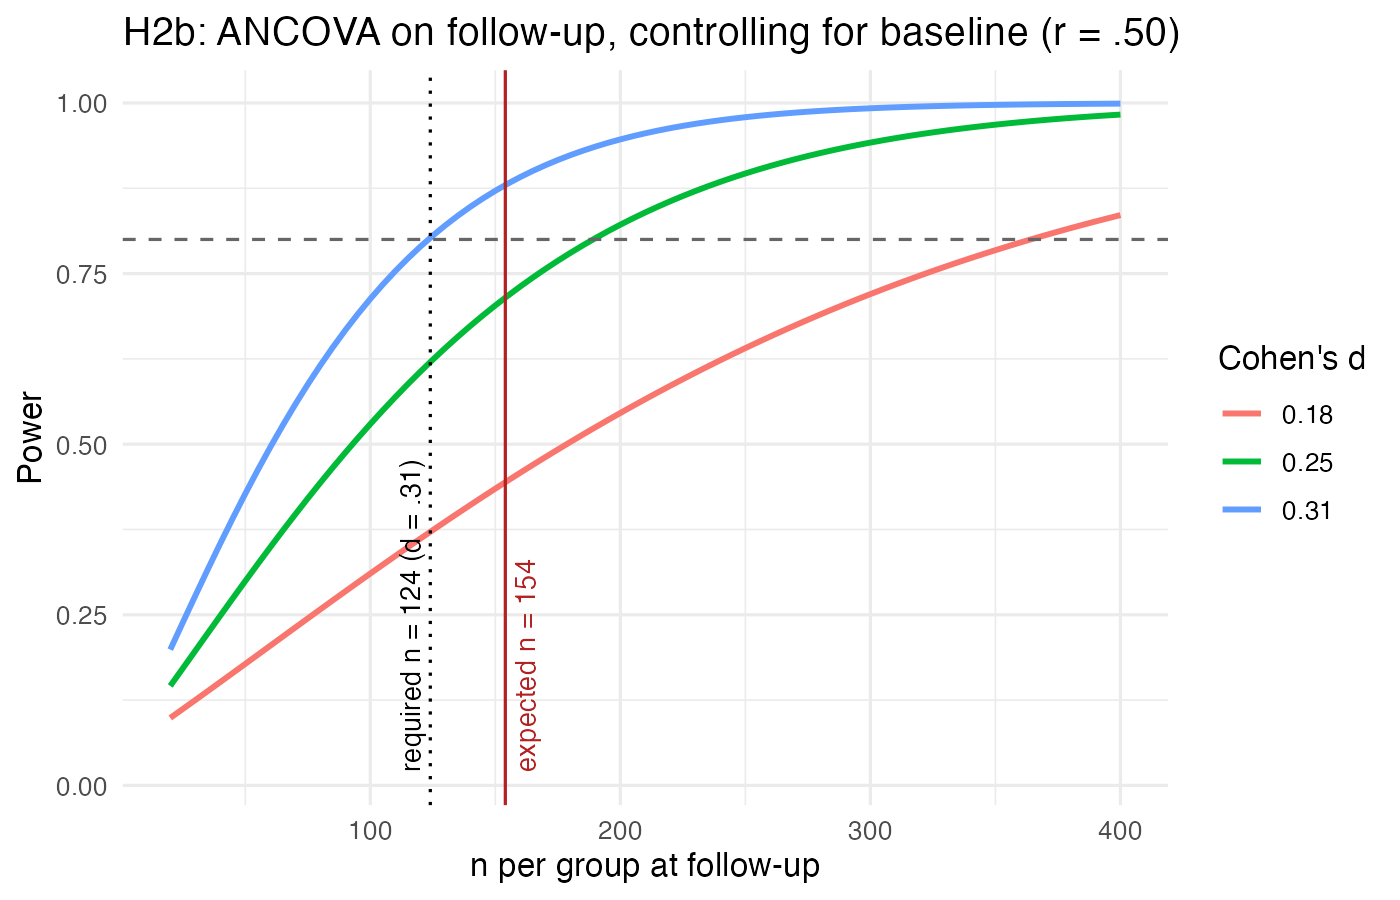
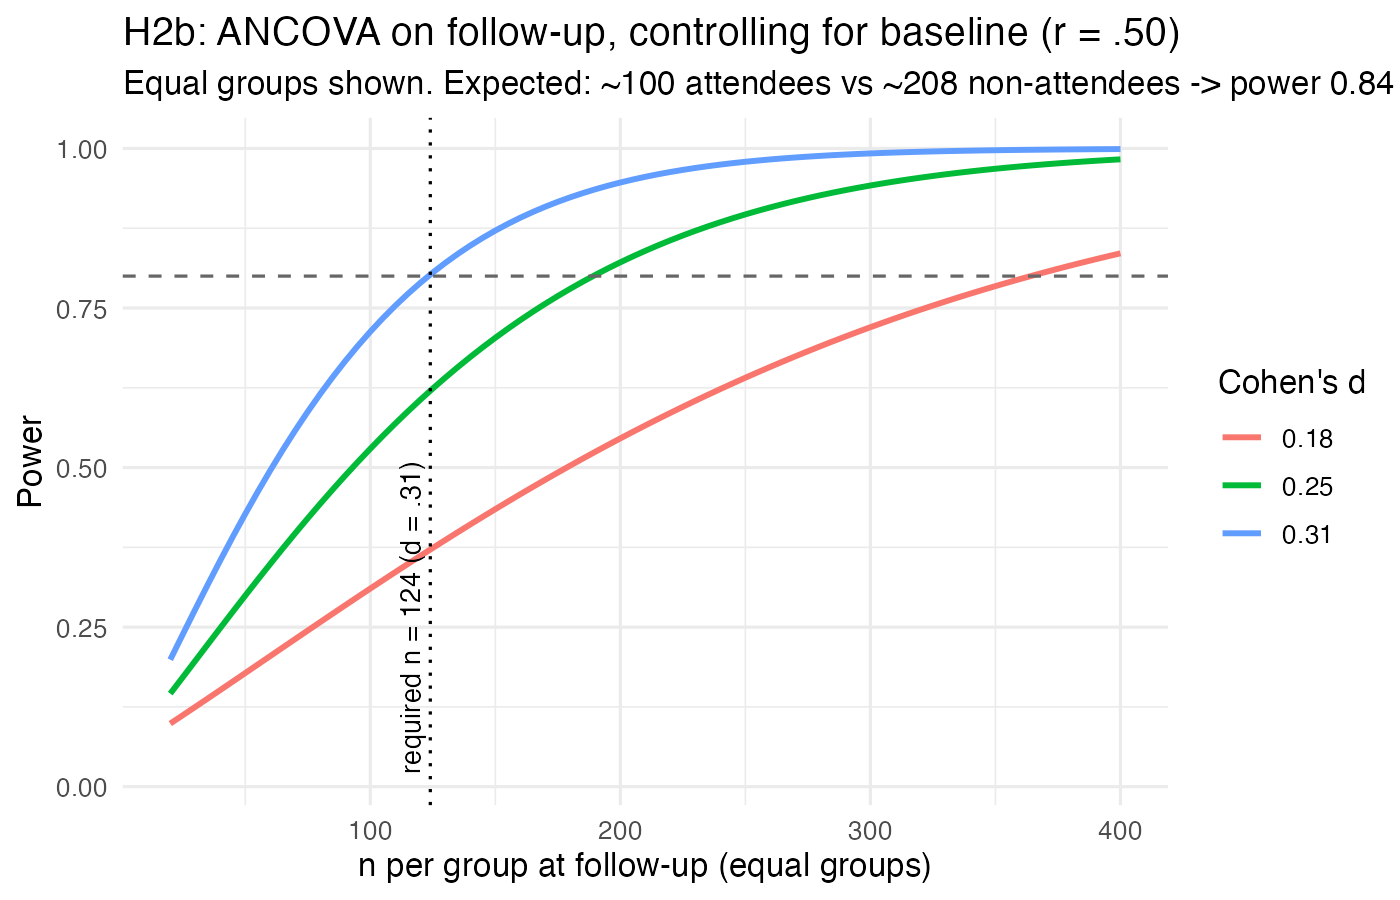
Fix Part 4 sources, fill placeholder references, correct H2b power
- Part 4 temporal-context table: restore the template's original
  "Action if Medium/High" text, move study notes to a new column tagged by
  source, record that poaching still occurs on Santa Cruz, remove El Nino.
- Replace placeholder references (Boren & Echeverri 2025, de Goede et al.
  2025, Johnson & Reimer 2023, Wilkie et al. 2026, Tapia-Jaramillo 2022).
- H2b power at planned N now uses expected attendees (~100) vs
  non-attendees (~208) instead of invitation arms: .84 at d = .31,
  .40 at d = .18.

diff --git a/Step_04_Study_Architecture_and_Experimental_Design/design_decision_matrix.md b/Step_04_Study_Architecture_and_Experimental_Design/design_decision_matrix.md
@@ -74,15 +74,17 @@ Use the table below BEFORE launch to actively map out these risks. Rate each one
 
 Rate each factor Low / Medium / High for your data collection window.
 
-| Factor | Risk level | Action if Medium/High |
-|---|---|---|
-| Data collection during hunting / culling season | **Low–Medium.** There is no tortoise hunting, but GNPD invasive-species control (e.g., feral animal or rodent eradication) may run in June–Aug. The garúa (cool, dry) season is also when tortoises move into the highlands and onto farms, so human–tortoise contact and farm conflicts (fence and crop damage, road encounters) peak during fieldwork. | Record GNPD control campaigns and season as covariates. Ask about recent tortoise encounters on the respondent's property or road. All waves fall in the same season, so season is held constant across the panel. |
-| Active depredation conflict or rewilding event nearby | **Medium.** Farmer–tortoise conflicts in the highlands; possible tortoise reintroduction or translocation news from other islands. | Log events with dates and parish. Add an event-proximity covariate (event in own parish within 4 weeks before the interview). |
-| National or regional media spike on focal species | **Medium.** Tortoise **trafficking or poaching** news (smuggling seizures at airports) recurs and draws national attention. | Log news items (national press, *El Colono*, local radio and Facebook pages) and Google Trends for "tortugas Galápagos". Add a media-spike indicator for interview dates. |
-| Extreme weather affecting outdoor activity | **Medium.** **Floods** and other shocks (heavy rain, El Niño-related events, landslides on highland roads) can affect mood, access to the highlands and attendance at the monitoring day. | Record daily weather (INAMHI / Charles Darwin Station). The survey asks about recent shocks such as floods. If a major event happens, add a wave-period indicator. |
-| Major policy announcement (listing, delisting, quota change) | **Medium.** Possible announcements on the Special Law, the park entry fee or tourism quotas, GNPD management-plan changes, or new rules on tortoise movement across farms. | Log announcements. Flag affected interview windows. Because trust is an outcome, run a sensitivity analysis excluding interviews within 2 weeks after a major announcement. |
+**Key for the last column:** ✅ = from the author's notes or fieldwork knowledge · ⚠ = added from general knowledge; **needs a source or the author's confirmation** before submission.
 
-**Overall temporal-context risk: Medium.** All events, shocks such as floods, trafficking or poaching news, and policy announcements are recorded during each wave in `temporal_context_log.md` and used as covariates.
+| Factor | Risk level | Action if Medium/High *(Ale's original text)* | This study: notes and sources |
+|---|---|---|---|
+| Data collection during hunting / culling season | **Medium** ⚠ *(level to confirm)* | Record as covariate; consider delaying or stratifying by season | ✅ **Illegal tortoise poaching still happens on Santa Cruz.** There are no official island-level data, but the author knows of it from fieldwork; it is reportedly less frequent than on Isabela. Poaching incidents that residents hear about during fieldwork are recorded with dates. ⚠ GNPD invasive-species control campaigns may run during the fieldwork window. ⚠ Seasonal tortoise movement into the highlands and onto farms may raise human–tortoise contact during fieldwork. |
+| Active depredation conflict or rewilding event nearby | **Medium** ⚠ *(level to confirm)* | Document events; add event-proximity covariate | ⚠ Farmer–tortoise conflicts in the highlands (e.g., fence or crop damage). ⚠ Possible tortoise reintroduction or translocation news from other islands. |
+| National or regional media spike on focal species | **Medium** | Record Google Trends or media index; add as covariate | ✅ Trafficking or poaching news (from the author's notes). ⚠ Specific outlets to log (national press, local newspaper, local radio and Facebook pages) to be chosen by the author. |
+| Extreme weather affecting outdoor activity | **Medium** | Record daily weather; assess mood confounds | ✅ Floods and other shocks (from the author's notes), e.g., heavy rain or landslides on highland roads, which can limit access to the highlands and attendance at the monitoring day. The survey asks about recent shocks such as floods. ⚠ Source for daily weather records to be confirmed by the author. |
+| Major policy announcement (listing, delisting, quota change) | **Medium** | Flag wave; consider ACI framing | ✅ Policy announcements (from the author's notes). ⚠ Examples to confirm: changes to the Special Law for Galápagos, the park entry fee or tourism quotas, GNPD management-plan changes, rules on tortoise movement across farms. ⚠ Proposed sensitivity analysis: exclude interviews within 2 weeks after a major announcement, because trust is an outcome. |
+
+✅ **Overall temporal-context risk: Medium** (from the author's notes). Shocks such as floods, trafficking or poaching news, and policy announcements are recorded during each wave in `temporal_context_log.md` and used as covariates.
 
 ---
 
@@ -118,7 +120,7 @@ scheme design) where no real-world BACI intervention is feasible.
 | Design type selected | **Mixed:** between-subjects (randomly invited vs. not invited; 1:1, stratified by area × occupation) × within-subjects (the same residents before and after). BACI logic with **randomized encouragement** (Gerber & Green, 2012). Plus ~100 **new** post-festival residents (an after-only comparison) to describe the wider community and check for testing effects. |
 | Expected change type | **Transient to short-term** for norms, collective efficacy and intentions. Durable change (> 3 months) is **not** tested. This is acknowledged as a limitation, and a delayed follow-up is recommended for future work. |
 | Post-measurement occasions | **T1:** second survey, 2–6 weeks after the festival (repeats only the before/after measures, plus attendance with a check question and festival experience). **T2 (behavioral):** community tortoise-monitoring day in the highlands, ~2 weeks after T1 (sign-up at T1; attendance from the sign-in sheet). |
-| Temporal context risks | **Medium** (see Part 4): floods and other shocks, trafficking or poaching news, policy announcements, highland farm–tortoise contact in the garúa season. All are recorded as covariates. |
+| Temporal context risks | **Medium** (see Part 4): floods and other shocks, trafficking or poaching news (poaching still occurs on Santa Cruz), policy announcements. All are recorded as covariates. |
 | Pre-registration platform | **OSF** (Step 05), before the first survey begins. |
 
 **Causal logic.** (1) The random invitation gives an **intention-to-treat** estimate. (2) Using the invitation as an **instrument** for attendance estimates the effect of attending among compliers (Angrist et al., 1996). (3) The attendee vs. non-attendee **ANCOVA** (controlling for baseline) is weaker, because attendance is self-selected, and is interpreted alongside (1) and (2).

diff --git a/Step_09_Power_Analysis_Sampling_and_Pilots/sampling_and_pilot_plan.md b/Step_09_Power_Analysis_Sampling_and_Pilots/sampling_and_pilot_plan.md
@@ -27,8 +27,8 @@
 |---|---|---|---|---|
 | **RQ1 / H1a–H1c**: one tested term (e.g., RV × trust) in a 16-predictor regression* | `pwr.f2.test(u = 1, f2 = .02)` → *v* = 392.4 | *f*² = .02 | **N = 410** at baseline (*v* + *k* + 1 = 393 + 16 + 1) | .83 (N = 440) |
 | **H2a**: attendance, invited vs. not invited | `pwr.2p.test(h = ES.h(.40, .25))` | 25% vs. 40% (*h* = 0.32) | **152 per group** at follow-up; 151.2 / 0.70 = **216 per group (432 total)** at baseline | .81 (154 per arm) |
-| **H2b**: ANCOVA on follow-up, controlling for baseline | `pwr.t.test(d)` × 0.75 | *d* = 0.31 | 164.3 × 0.75 → **124 per group** at follow-up | .88 (154 per arm) |
-| H2b (sensitivity) | same | *d* = 0.18 | 485.5 × 0.75 → **365 per group** | .44 (154 per arm) |
+| **H2b**: ANCOVA on follow-up, controlling for baseline | `pwr.t.test(d)` × 0.75 | *d* = 0.31 | 164.3 × 0.75 → **124 per group** at follow-up (if groups were equal) | .84 (~100 attendees vs. ~208 non-attendees) |
+| H2b (sensitivity) | same | *d* = 0.18 | 485.5 × 0.75 → **365 per group** | .40 (~100 vs. ~208) |
 
 \* The 16 predictors are relational values, trust, identification and in-group norms (4); the RV × trust and identification × norms interactions (2); area (1); origin (1); occupation as 4 dummies (4); and age, gender, education and years in Galápagos (4).
 
@@ -36,7 +36,7 @@
 
 ### Which test drives the sample size?
 
-> **H2a is the binding constraint.** It needs 152 per group at follow-up. Divided by 0.70 (30% attrition), that is 216 per group, or **432 at baseline**, which I round up to **N = 440 (220 per arm)** as a small buffer. That baseline N also covers RQ1 (410 needed; RQ1 uses baseline data) and H2b at *d* = 0.31 (124 per group needed; ~154 expected).
+> **H2a is the binding constraint.** It needs 152 per group at follow-up. Divided by 0.70 (30% attrition), that is 216 per group, or **432 at baseline**, which I round up to **N = 440 (220 per arm)** as a small buffer. That baseline N also covers RQ1 (410 needed; RQ1 uses baseline data) and H2b at *d* = 0.31. H2b compares **attendees with non-attendees**, not the invitation groups. Under the H2a assumptions, about 100 of the ~308 follow-up residents attend (25% of 154 + 40% of 154) and ~208 do not. With these unequal groups, power at *d* = 0.31 is .84, because the larger non-attendee group makes up for fewer attendees.
 
 | | Baseline | Follow-up (expected) |
 |---|---|---|
@@ -46,7 +46,7 @@
 | New post-festival residents | n/a | ~100 (not powered; used to describe the community and check for testing effects) |
 
 ### Caveats to report honestly
-1. **H2b at the bias-corrected *d* = 0.18 is not powered** (.44 with the expected 154 per arm). I report it as a sensitivity result, not as a confirmatory test.
+1. **H2b at the bias-corrected *d* = 0.18 is not powered** (.40 with ~100 attendees vs. ~208 non-attendees). I report it as a sensitivity result, not as a confirmatory test.
 2. **ITT and IV estimates for H2b are supplementary.** The invitation raises attendance by only 15 points (25% → 40%). The intention-to-treat effect of the *invitation* on H2b outcomes is therefore about 0.15 × *d* (ITT *d* ≈ 0.05), and power for it is ≈ .08. The IV (complier) estimate (Angrist et al., 1996) recovers *d*, but its standard error is inflated by roughly 1/0.15. The attendee vs. non-attendee ANCOVA is the powered comparison, but attendees self-select, so I interpret it alongside the ITT and IV estimates and never on its own.
 3. **H2c (monitoring-day sign-up and attendance) is not separately powered**, because no local base rate exists. The pilot (§3) gives a first estimate of sign-up rates, and if needed H2c is re-checked with `pwr.2p.test` before the main survey.
 4. **The pilot will re-estimate *r* and attrition.** If the observed pre–post *r* is below .50, or attrition is above 30%, the curves in `output/` show the resulting loss of power.

diff --git a/Step_06_Instrument_Construction/templates/survey_matrix_template.md b/Step_06_Instrument_Construction/templates/survey_matrix_template.md
@@ -336,12 +336,12 @@ Use the table below to select the appropriate format for each item.
 
 ### Additional references for this study
 
-- Boren, & Echeverri, A. (2025). *[Word association task, cited in the repo's `question_types_reference.md`; full reference to be completed by author.]*
+- Boren, A., & Echeverri, A. (2025). Does psychic numbing apply to endangered species conservation? The case of the Peregrine Falcon in Berkeley, California. *Frontiers in Conservation Science*, *6*. https://doi.org/10.3389/fcosc.2025.1490272
 - Echeverri, A., Karp, D. S., Naidoo, R., Zhao, J., & Chan, K. M. (2019). Approaching human-animal relationships from multiple angles: A synthetic perspective. *Biological Conservation*, 240, 108297.
 - Klain, S. C., Olmsted, P., Chan, K. M. A., & Satterfield, T. (2017). Relational values resonate broadly and differently than intrinsic or instrumental values, or the New Ecological Paradigm. *PLOS ONE*, 12(8), e0183962.
 - Langhans, K. E., Echeverri, A., Xu, M., Callahan, M., Palmeri, M. L., Nguyen, O., Ardoin, N. M., & Daily, G. C. (2025). Urban community gardens foster positive human-avian interactions across an income gradient in San Francisco. *Landscape and Urban Planning*, 261, 105391.
 - Leach, C. W., et al. (2008). Group-level self-definition and self-investment. *JPSP*, 95(1), 144–165. *(Full references for the adapted measures: `Step_03/notes.md`.)*
 - Prober, S. M., Raisbeck-Brown, N., Porter, N. B., Williams, K. J., Leviston, Z., & Dickson, F. (2019). Recent climate-driven ecological change across a continent as perceived through local ecological knowledge. *PLOS ONE*, 14(11), e0224625.
 - Stern, M. J., & Coleman, K. J. (2015). The multidimensionality of trust. *Society & Natural Resources*, 28(2), 117–132.
-- Tapia-Jaramillo, I. (2022). *[MSc thesis on participatory mapping on Isabela Island; full reference to be completed by author.]*
+- Tapia-Jaramillo, I. (2022). *Multi-criteria decision analysis and public participation GIS as a spatial tool to inform and improve giant tortoise population management in the Galapagos Islands, Ecuador* [Master's thesis, University of Southampton]. https://doi.org/10.13140/RG.2.2.34320.01283
 - Veríssimo, D., Fiennes, S., & Dunn, M. (2024). Using digital mobile games to increase the support for nature conservation. *Conservation Science and Practice*, 6(11), e13236.

diff --git a/APPENDICES_ESPM231_Assignment2.md b/APPENDICES_ESPM231_Assignment2.md
@@ -20,4 +20,10 @@ Rscript Step_04_Study_Architecture_and_Experimental_Design/code/randomization.R
 Rscript Step_07_Measuring_Behavior_Beyond_Self_Report/code/intention_behavior_gap.R
 ```
 
-**References still to complete** (marked *[to be completed by author]* in the files): Johnson & Reimer (2023); Wilkie et al. (2026); Tapia-Jaramillo (2022, MSc thesis); Boren & Echeverri (2025); de Goede et al. (2025).
+**References added on 2026-11-10** (previously placeholders):
+
+- Boren, A., & Echeverri, A. (2025). Does psychic numbing apply to endangered species conservation? The case of the Peregrine Falcon in Berkeley, California. *Frontiers in Conservation Science*, *6*. https://doi.org/10.3389/fcosc.2025.1490272
+- de Goede, M., Leukfeldt, E. R., van der Wagen, W., & van de Weijer, S. (2025). Does protection motivation predict self-protective online behaviour? Comparing self-reported and actual online behaviour using a population-based survey experiment. *Computers in Human Behavior Reports*, 100649. https://doi.org/10.1016/j.chbr.2025.100649
+- Johnson, N., & Reimer, T. (2023). Using the social identity model of pro-environmental behavior to predict support for the adoption of solar panels. *Journal of Environmental Studies and Sciences*, *13*(4), 587–601. https://doi.org/10.1007/s13412-023-00850-9
+- Tapia-Jaramillo, I. (2022). *Multi-criteria decision analysis and public participation GIS as a spatial tool to inform and improve giant tortoise population management in the Galapagos Islands, Ecuador* [Master's thesis, University of Southampton]. https://doi.org/10.13140/RG.2.2.34320.01283
+- Wilkie, D. S., Robinson, J. G., Bennett, E. L., & The WCS Wild Meat Group. (2026). Using behavioral science to end the tropical forest wild meat crisis, illustrated by a case example from Central Africa. *Conservation Science and Practice*, *8*(2), e70220. https://doi.org/10.1111/csp2.70220

diff --git a/Step_07_Measuring_Behavior_Beyond_Self_Report/behavioral_measure_note.md b/Step_07_Measuring_Behavior_Beyond_Self_Report/behavioral_measure_note.md
@@ -69,7 +69,7 @@ With simulated data, the script runs end to end and writes two figures: `intenti
 
 ### References
 
-de Goede, et al. (2025). *[Actual vs. self-reported online protective behavior; full reference in `examples/behavioral_measurement_examples.md`.]*
+de Goede, M., Leukfeldt, E. R., van der Wagen, W., & van de Weijer, S. (2025). Does protection motivation predict self-protective online behaviour? Comparing self-reported and actual online behaviour using a population-based survey experiment. *Computers in Human Behavior Reports*, 100649. https://doi.org/10.1016/j.chbr.2025.100649
 
 ElHaffar, G., Durif, F., & Dubé, L. (2020). Towards closing the attitude-intention-behavior gap in green consumption: A narrative review of the literature and an overview of future research directions. *Journal of Cleaner Production*, *275*, 122556. https://doi.org/10.1016/j.jclepro.2020.122556
 
@@ -77,4 +77,4 @@ Salazar, G., Monroe, M. C., Ennes, M., Jones, J. A., & Veríssimo, D. (2022). Te
 
 Veríssimo, D., Fiennes, S., & Dunn, M. (2024). Using digital mobile games to increase the support for nature conservation. *Conservation Science and Practice*, *6*(11), e13236. https://doi.org/10.1111/csp2.13236
 
-Wilkie, et al. (2026). *[Reward, nudge and influence levers for participation; full reference to be completed by author.]*
+Wilkie, D. S., Robinson, J. G., Bennett, E. L., & The WCS Wild Meat Group. (2026). Using behavioral science to end the tropical forest wild meat crisis, illustrated by a case example from Central Africa. *Conservation Science and Practice*, *8*(2), e70220. https://doi.org/10.1111/csp2.70220

diff --git a/Step_02_Theory_Grounding_and_Construct_Conceptualization/notes.md b/Step_02_Theory_Grounding_and_Construct_Conceptualization/notes.md
@@ -83,7 +83,7 @@ Chan, K. M. A., Balvanera, P., Benessaiah, K., Chapman, M., Díaz, S., Gómez-Ba
 
 Fritsche, I., Barth, M., Jugert, P., Masson, T., & Reese, G. (2018). A social identity model of pro-environmental action (SIMPEA). *Psychological Review*, *125*(2), 245–269. https://doi.org/10.1037/rev0000090
 
-Johnson, & Reimer. (2023). *[Full reference to be completed by author: SIMPEA study used as the source for the norm and collective-efficacy items.]*
+Johnson, N., & Reimer, T. (2023). Using the social identity model of pro-environmental behavior to predict support for the adoption of solar panels. *Journal of Environmental Studies and Sciences*, *13*(4), 587–601. https://doi.org/10.1007/s13412-023-00850-9
 
 Klain, S. C., Olmsted, P., Chan, K. M. A., & Satterfield, T. (2017). Relational values resonate broadly and differently than intrinsic or instrumental values, or the New Ecological Paradigm. *PLOS ONE*, *12*(8), e0183962. https://doi.org/10.1371/journal.pone.0183962
 

diff --git a/Step_03_Psychometric_Scales_and_Construct_Validity/notes.md b/Step_03_Psychometric_Scales_and_Construct_Validity/notes.md
@@ -85,7 +85,7 @@ Fishbein, M., & Ajzen, I. (2010). *Predicting and changing behavior: The reasone
 
 Fritsche, I., Barth, M., Jugert, P., Masson, T., & Reese, G. (2018). A social identity model of pro-environmental action (SIMPEA). *Psychological Review*, *125*(2), 245–269. https://doi.org/10.1037/rev0000090
 
-Johnson, & Reimer. (2023). *[Full reference to be completed by author.]*
+Johnson, N., & Reimer, T. (2023). Using the social identity model of pro-environmental behavior to predict support for the adoption of solar panels. *Journal of Environmental Studies and Sciences*, *13*(4), 587–601. https://doi.org/10.1007/s13412-023-00850-9
 
 Klain, S. C., Olmsted, P., Chan, K. M. A., & Satterfield, T. (2017). Relational values resonate broadly and differently than intrinsic or instrumental values, or the New Ecological Paradigm. *PLOS ONE*, *12*(8), e0183962. https://doi.org/10.1371/journal.pone.0183962
 

diff --git a/Step_03_Psychometric_Scales_and_Construct_Validity/scale_documentation/03_ingroup_norms.md b/Step_03_Psychometric_Scales_and_Construct_Validity/scale_documentation/03_ingroup_norms.md
@@ -3,7 +3,7 @@
 *Status: **adapted** measure (the Step 03 table has no norm scale; see `../notes.md`).*
 
 - **Construct name:** Perceived in-group norms about tortoise conservation: what people in the respondent's community are seen to **do** (descriptive norm) and to **approve of** (injunctive norm) (Cialdini et al., 1990; Fritsche et al., 2018).
-- **Source / citation:** Adapted from norm items used in SIMPEA studies (e.g., Johnson & Reimer, 2023; *full reference to be completed*), following SIMPEA's definition of in-group norms. The wording is tailored to giant tortoise conservation on Santa Cruz.
+- **Source / citation:** Adapted from norm items used in SIMPEA studies (e.g., Johnson & Reimer, 2023), following SIMPEA's definition of in-group norms. The wording is tailored to giant tortoise conservation on Santa Cruz.
 - **Items (numbered):**
 
 | # | Variable | Norm type | English | Spanish draft |

diff --git a/Step_03_Psychometric_Scales_and_Construct_Validity/scale_documentation/04_collective_efficacy.md b/Step_03_Psychometric_Scales_and_Construct_Validity/scale_documentation/04_collective_efficacy.md
@@ -3,7 +3,7 @@
 *Status: **adapted** measure (the Step 03 table has no collective-efficacy scale; see `../notes.md`).*
 
 - **Construct name:** Collective efficacy: the shared belief that residents of Santa Cruz, acting together, can achieve tortoise conservation goals (Bandura, 2000; Fritsche et al., 2018).
-- **Source / citation:** Adapted from collective-efficacy items in SIMPEA studies (e.g., Johnson & Reimer, 2023; *full reference to be completed*). The items follow SIMPEA's "we can do it together" definition and are tailored to tortoise conservation.
+- **Source / citation:** Adapted from collective-efficacy items in SIMPEA studies (e.g., Johnson & Reimer, 2023). The items follow SIMPEA's "we can do it together" definition and are tailored to tortoise conservation.
 - **Items (numbered):**
 
 | # | Variable | English | Spanish draft |
